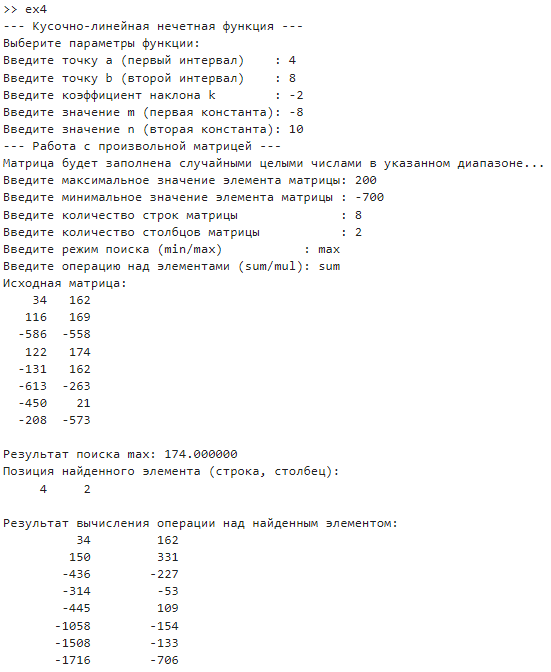
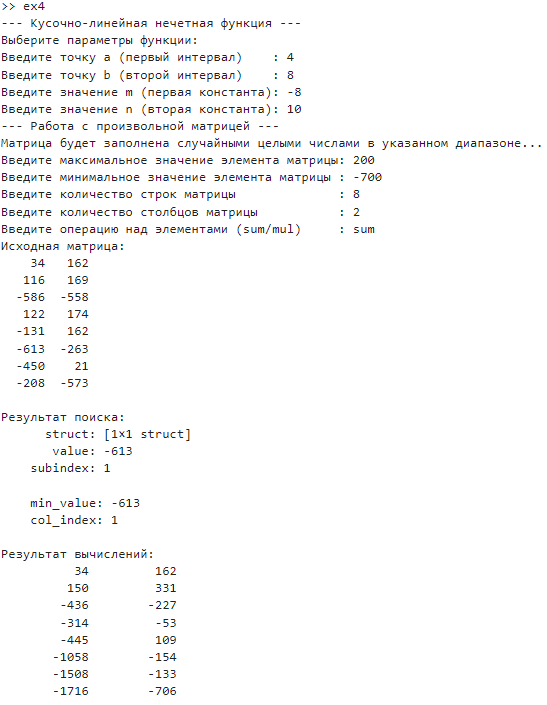
update pioa lab 4

diff --git a/reports/sem_3/pioa/lab-4/main.tex b/reports/sem_3/pioa/lab-4/main.tex
@@ -41,21 +41,18 @@
     ]{matlab}{code/ex1.m}
 \end{listing}
 
-В данном задании используется функция \textit{fliprl}, суть которой заключается в отражении массива по горизонтали. Так, если у нас есть массив $A = [1, 2, 3]$, то применение функции \textit{fliprl} даст нам $fliprl(A) = [3, 2, 1]$.
-В совокупности с домножением на $-1$, это позволяет нам получить отрицательные значения функции для отрицательных значений $x$, что и требуется для построения нечетной функции.
-
-В заключение отраженная и исходная части функции объединяются в один массив, при этом исключается повторяющаяся точка в начале координат (нулевой элемент).
-Примечательно, что для построения корректно выглядящего графика, необходимо использовать достаточно мелкий шаг для $x$ (в данном случае $0.01$).
+В данном задании используется функция \textit{sign}, которая в данном случае используется как инструмент для получения знака переменной \textit{x}.
+Её использование вместе с \textit{abs} позволяет с относительной простотой отражать положительную часть функции относительно начала координат для получения нечетной функции.
 
 
 \subsection*{ \boxed{\text{ Задание 2. }} }
+
 \begin{quote}
     \textit{Создать прототип функции, сохраняющей внешний вид рисунка из \cref{fig:source}, но с произвольными числами, с учетом нечетности.}
 \end{quote}
 
-\begin{table}[hb]
+\begin{table}[hbt]
     \centering
-    \renewcommand{\arraystretch}{2.5}
     \caption{Исходные данные для варианта 3}
     \label{table:source}
     \begin{tabularx}{\linewidth}{cCC}
@@ -79,12 +76,15 @@
     \inputminted[
         % firstline      = 1,
         % lastline       = 10,
-        % highlightlines = {1-10},
+        highlightlines = {6-8},
     ]{matlab}{code/ex2.m}
 \end{listing}
 
 Реализация задания 1 в функции для задания 2 заключается в параметризации всех констант, которые определяют вид функции.
-Были добавлены параметры для интервалов разрывов функции $a$ и $b$ (точки $(2, -2)$ и $(6,-2)$ соотв. на \cref{fig:source}), коэффициента наклона линейного участка $k$ (промежуток $x\in[0; 2]$ на \cref{fig:source}), а также значений горизонтальных участков $m$ и $n$ (промежутки $[2; 6]$ и $[6; 8]$ на \cref{fig:source}).
+Были добавлены параметры для интервалов разрывов функции $a$ и $b$ (точки $(2, -2)$ и $(6,-2)$ соотв. на \cref{fig:source}), а также значений горизонтальных участков $m$ и $n$ (промежутки $[2; 6]$ и $[6; 8]$ на \cref{fig:source}).
+
+Примечательно, что функция возвращает свой прототип (конструкция \mintinline{x}!f = @ (x) ...!). Пример использования функции приведен на строках 6--8 в \cref{lst:ex2.m}. 
+
 Это позволяет вызывать функцию с любыми значениями этих параметров, сохраняя при этом общий вид функции, представленный на \cref{fig:source}.
 
 
@@ -93,19 +93,25 @@
     \textit{Создать функции для выполнения операций из \cref{table:source}, но с произвольными матрицами. Добавить в функции вариативность действий (сумма/произведение).}
 \end{quote}
 
+\begin{listing}[H]
+    \caption{Функция поиска над произв. матрицей}
+    \label{lst:ex3_1.m}
+    \inputminted[
+        % firstline      = 1,
+        % lastline       = 10,
+        % highlightlines = {1-10},
+    ]{matlab}{code/ex3_1.m}
+\end{listing}
+
 \begin{codemultipage}
-    \captionof{listing}{Функция для выполнения разл. операций над произв. матрицей\label{lst:ex3.m}}
-    \inputminted{matlab}{code/ex3.m}
+    \captionof{listing}{Функция подсчета над произв. матрицей\label{lst:ex3_2.m}}
+    \inputminted{matlab}{code/ex3_2.m}
 \end{codemultipage}
 
-Для создания данной функции за основу были взяты наработки из предыдущих лабораторных работ.
-Данная функция принимает на вход матрицу и два символьных аргумента: режим поиска (максимальный или минимальный элемент) и режим накопительной суммы или произведения.
+Для создания данных функций за основу были взяты наработки из предыдущих лабораторных работ.
+В \cref{lst:ex3_1.m} представлена функция нахождения минимального элемента и его столбца. Она поддерживает переменное число выходных аргументов. В случае, если он один, фукнция запишет в него структуру с полями \textit{value} (значение минимального элемента) и \textit{column} (номер столбца, в котором находится минимальный элемент). Если выходных аргументов два, то в первый будет записан минимальный элемент, а во второй --- номер столбца.
 
-Вначале функция проверяет корректность входных данных, чтобы избежать ошибок при выполнении. Затем, в зависимости от указанных режимов, выполняются соответствующие операции.
-
-Для нахождения максимальных или минимальных элементов используется перебор всех элементов в матрице. В качестве более эффективной альтернативы можно использовать встроенные функции MatLab, такие как \mintinline{x}!max! и \mintinline{x}!min!, которые оптимизированы для работы с матрицами. Однако важно также вернуть индексы найденных элементов, поэтому в данном случае используется простой перебор для простоты реализации алгоритма.
-
-Аналогично, для вычисления накопительных сумм или произведений используются уже известные алгоритмы из предыдущих лабораторных работ.
+Вторая функция, представленная в \cref{lst:ex3_2.m}, реализует вычисление частичных сумм или произведений над столбцами матрицы в зависимости от входного символьного аргумента \textit{operation}. Если он равен \mintinline{x}!'sum'!, то будет вычислена накопительная сумма, если \mintinline{x}!'mul'! --- накопительное произведение.
 
 \subsection*{ \boxed{\text{ Задание 4. }} }
 \begin{quote}
@@ -124,18 +130,19 @@
 
 Алгоритм работает исправно и корректно выполняет все поставленные задачи (см. \cref{fig:result.png}).
 
+Были решены все задачи. Цель лабораторной работы была успешно достигнута, продемонстрировав владение всеми необходимыми знаниями для работы с функциями в MatLab.
+
 \begin{figure}[hbt]
     \centering
-    \includegraphics[width=0.8\textwidth]{figs/result.png}
+    \includegraphics[width=\linewidth, height=0.75\textheight, keepaspectratio]{figs/result.png}
     \caption{Вызов программы}
     \label{fig:result.png}
 \end{figure}
 
-\begin{figure}[hb]
+\begin{figure}[hbt]
     \centering
-    \includegraphics[width=0.8\textwidth]{figs/result_figure.png}
+    \includegraphics[width=1.00\textwidth]{figs/result_figure.png}
     \caption{График при параметрах из \cref{fig:result.png}}
     \label{fig:result_figure.png}
 \end{figure}
 
-Были решены все задачи. Цель лабораторной работы была успешно достигнута, продемонстрировав владение всеми необходимыми знаниями для работы с функциями в MatLab.

diff --git a/reports/sem_3/pioa/lab-4/code/ex4.m b/reports/sem_3/pioa/lab-4/code/ex4.m
@@ -3,11 +3,12 @@ disp('--- Кусочно-линейная нечетная функция ---');
 disp('Выберите параметры функции:');
 a = input('Введите точку a (первый интервал)    : ');
 b = input('Введите точку b (второй интервал)    : ');
-k = input('Введите коэффициент наклона k        : ');
 m = input('Введите значение m (первая константа): ');
 n = input('Введите значение n (вторая константа): ');
 
-[x, y] = ex2(a, b, k, m, n);
+x = -10 : 0.01 : 10;
+f = ex2(a, b, m, n);
+y = f(x);
 plot(x, y);
 grid on;
 xlabel('x'); ylabel('f(x)');
@@ -22,18 +23,19 @@ max_matrix_val_input = input('Введите максимальное значе
 min_matrix_val_input = input('Введите минимальное значение элемента матрицы : ');
 rows_input           = input('Введите количество строк матрицы              : ');
 cols_input           = input('Введите количество столбцов матрицы           : ');
+operation_mode_input = input('Введите операцию над элементами (sum/mul)     : ', 's');
 
 matrix = randi([min_matrix_val_input, max_matrix_val_input], rows_input, cols_input);
 
-search_mode_input    = input('Введите режим поиска (min/max)           : ', 's');
-operation_mode_input = input('Введите операцию над элементами (sum/mul): ', 's');
+search_results.struct = ex3_1(matrix);
+[search_results.value, search_results.subindex] = ex3_1(matrix);
 
-result = ex3(matrix, search_mode_input, operation_mode_input);
+operation_result = ex3_2(matrix, operation_mode_input);
 
 disp('Исходная матрица:');
 disp(matrix);
-fprintf('Результат поиска %s: %f\n', search_mode_input, result.value);
-disp('Позиция найденного элемента (строка, столбец):');
-disp(result.subindex);
-disp('Результат вычисления операции над найденным элементом:');
-disp(result.operation);
+disp('Результат поиска:');
+disp(search_results);
+disp(search_results.struct);
+disp('Результат вычислений:');
+disp(operation_result);

diff --git a/reports/sem_3/pioa/lab-4/code/ex2.m b/reports/sem_3/pioa/lab-4/code/ex2.m
@@ -1,17 +1,16 @@
-function [x, y] = ex2(a, b, k, m, n)
-    % piecewise_odd_function генерирует нечетную кусочно-линейную функцию
+function f = ex2(a, b, m, n)
+    % Возвращает function handle для нечетной кусочно-линейной функции
     %     a, b - интервальные точки кусочно-линейной функции
-    %     k    - коэффициент наклона линейного участка
     %     m, n - произвольные константы для горизонтальных участков
+    % Использование:
+    %     x = -10 : 0.01 : 10; % диапазон значений x
+    %     f = ex2(a, b, m, n); % получение function handle
+    %     y = f(x);            % вычисление значений функции
 
-    x_positive = 0 : 0.01 : 10;
-    y_positive = (                 x_positive <= a) .* (k * x_positive) + ...
-                 (a < x_positive & x_positive <= b) .* (m) + ...
-                 (b < x_positive                  ) .* (n);
+    
+    k = m / a;  % наклон для линейного участка
 
-    x_negative = -fliplr(x_positive);
-    y_negative = -fliplr(y_positive);
-
-    x = [x_negative, x_positive(2:end)];
-    y = [y_negative, y_positive(2:end)];
+    f = @(x) (-a <= x      &      x <= a) .* (k * x) + ...
+             ( a  < abs(x) & abs(x) <= b) .* (m * sign(x)) + ...
+             ( b  < abs(x)              ) .* (n * sign(x));
 end

diff --git a/reports/sem_3/pioa/lab-4/code/ex1.m b/reports/sem_3/pioa/lab-4/code/ex1.m
@@ -1,18 +1,16 @@
-x_positive = 0 : 0.01 : 10;
-y_positive = (                 x_positive <= 2) .* (-x_positive) +...
-             (2 < x_positive & x_positive <= 6) .* (-2) +...
-             (6 < x_positive                  ) .* (+3);
+function [x, y] = ex1()
+    % Определение нечетной функции на отрезке [-10, 10]
+    % в соответствии с рисунком из задания.
+    % Возвращает векторы x и y, а также строит график функции.
 
-% Создаем симметричную часть
-x_negative = -fliplr(x_positive); % Отражаем x
-y_negative = -fliplr(y_positive); % Функция нечетная, если f(-x) = -f(x)
+    x = -10 : 0.01 : 10;
 
-% Объединяем
-x = [x_negative, x_positive(2:end)]; % 2:end, поскольку 0 уже включен в x_negative
-y = [y_negative, y_positive(2:end)]; % аналогично
+    y = (-2 <= x      &      x <= 2) .* (-1 * x) + ...
+        ( 2  < abs(x) & abs(x) <= 6) .* (-2 * sign(x)) + ...
+        ( 6  < abs(x)              ) .* ( 3 * sign(x));
 
-% Построение графика
-plot(x, y);
-grid on;
-xlabel('x'); ylabel('f(x)');
-title('Нечетная функция на [-10, 10]');
+    plot(x, y);
+    grid on;
+    xlabel('x'); ylabel('f(x)');
+    title('Нечетная функция на [-10, 10]');
+end

diff --git a/reports/sem_3/pioa/lab-4/code/ex3_2.m b/reports/sem_3/pioa/lab-4/code/ex3_2.m
@@ -1,0 +1,26 @@
+function result_matrix = ex3_2(matrix, operation_mode)
+    % ex3_2 выполняет операцию над матрицей
+    %   matrix - входная матрица
+    %   operation_mode - 'sum' или 'mul' для накопительной суммы/произведения
+    %   result_matrix - матрица с результатами
+
+    if operation_mode ~= "sum" && operation_mode ~= "mul"
+        error('Неизвестная операция. Доступные: sum, mul');
+    end
+
+    result_matrix = matrix;
+    switch operation_mode
+        case 'sum'
+            for col = 1:size(matrix, 2)
+                for row = 2:size(matrix, 1)
+                    result_matrix(row, col) = result_matrix(row, col) + result_matrix(row-1, col);
+                end
+            end
+        case 'mul'
+            for col = 1:size(matrix, 2)
+                for row = 2:size(matrix, 1)
+                    result_matrix(row, col) = result_matrix(row, col) * result_matrix(row-1, col);
+                end
+            end
+    end
+end

diff --git a/reports/sem_3/pioa/lab-4/code/ex3_1.m b/reports/sem_3/pioa/lab-4/code/ex3_1.m
@@ -1,0 +1,25 @@
+function [varargout] = ex3_1(matrix)
+    % ex3_1 находит минимальный элемент и столбец с ним
+    %   matrix - входная матрица
+    %   Выходы:
+    %   - Один выход: структура с полями min_value, col_index
+    %   - Два выхода: min_value, col_index
+
+    if isempty(matrix)
+        error('Матрица пуста');
+    end
+
+    % Поиск минимального элемента и его столбца
+    [min_value, min_index] = min(matrix(:));
+    [~, col_index] = ind2sub(size(matrix), min_index);
+
+    % Формирование результата в зависимости от числа выходов
+    if nargout <= 1
+        result.min_value = min_value;
+        result.col_index = col_index;
+        varargout{1} = result;
+    else
+        varargout{1} = min_value;
+        varargout{2} = col_index;
+    end
+end
